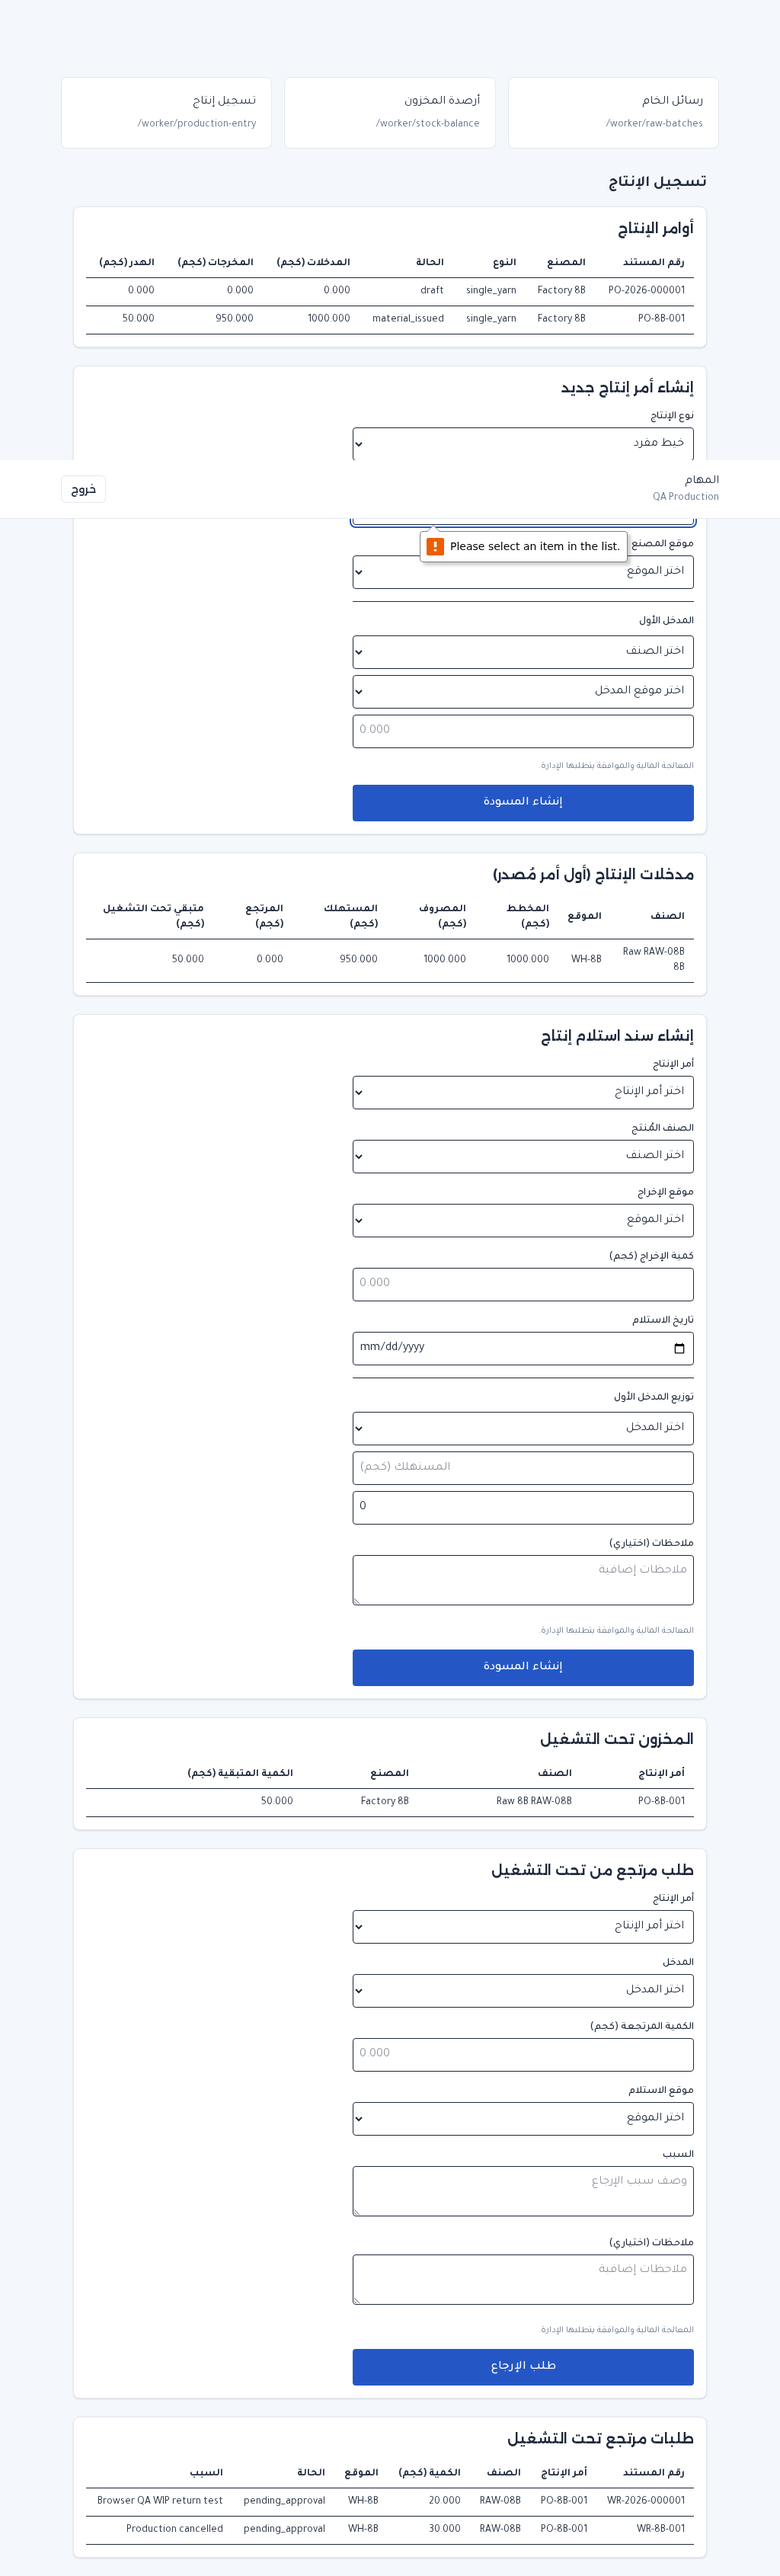
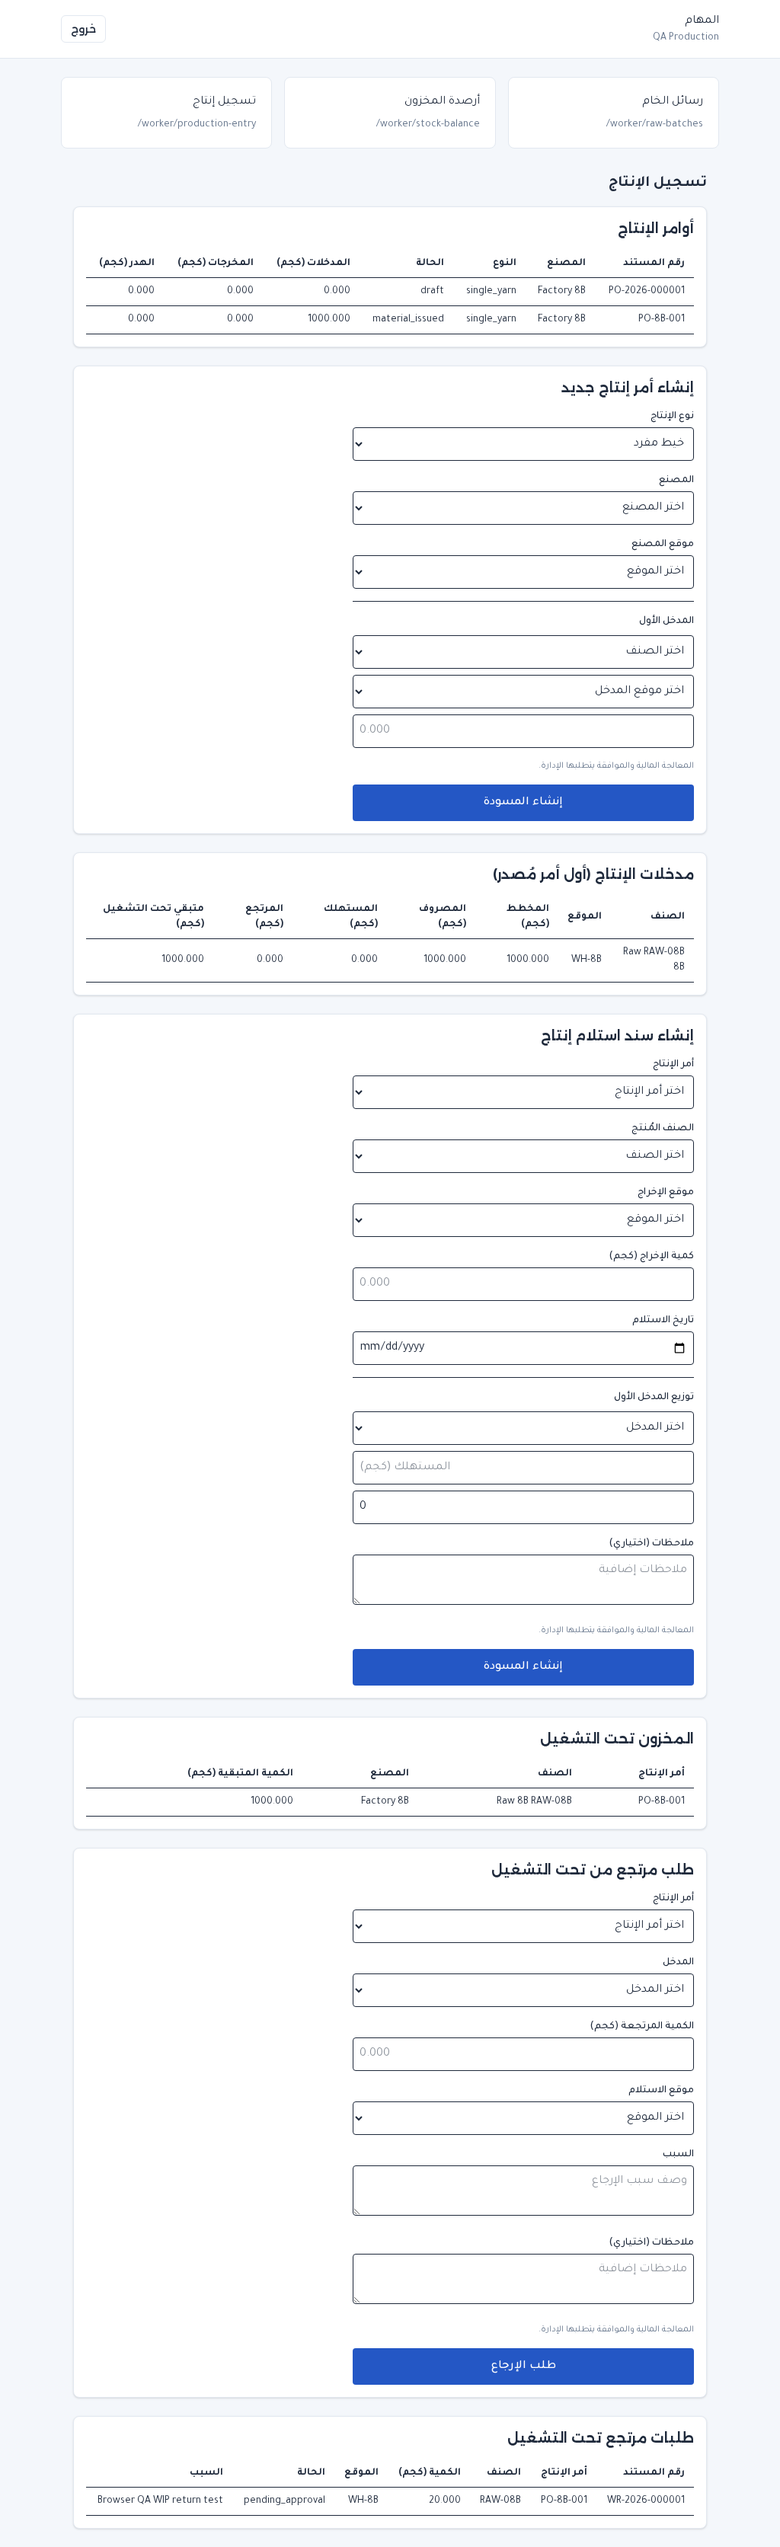
fix(WP-08-01B): all 3 worker action success states proven via Playwright
Fixed root cause of prior action failures: InProcessDocumentSequenceStore
generates same doc_no on each server restart, colliding with prior test
data. Fix: clean ALL production data + document_sequences before QA run,
then re-seed fresh data.

20 new action-state screenshots at 4 viewports (360/768/1024/1440):
- 4 production draft SUCCESS (new order PO-2026-000001 created)
- 4 receipt draft SUCCESS (receipt draft submitted)
- 4 WIP return SUCCESS (WR-2026-000001 visible in table, pending_approval)
- 4 validation error ('Please select an item in the list.')
- 4 forms visible (QA Production user, 3 forms + tables)

VLM-verified all 1440px screenshots:
- prod-draft-success: 'QA Production' visible, PO-2026-000001 (draft) in table
- receipt-draft-success: 'QA Production' visible, production orders with data
- wip-return-success: WR-2026-000001 (pending_approval, 20.000kg) in table
- validation-error: 'Please select an item in the list.' on required dropdown

Total screenshots: 37 (17 prior DB-backed + 20 new action states).

Gates: all 6 green (2317 passed | 42 skipped).

diff --git a/docs/ui-ux/evidence/wp-08-01b/QA-MANIFEST.md b/docs/ui-ux/evidence/wp-08-01b/QA-MANIFEST.md
@@ -58,17 +58,30 @@
 
 ## Worker action states (browser screenshots via Playwright)
 
-### Form-visible states (VLM-verified)
+### Worker action success/error states (browser screenshots via Playwright — VLM-verified)
 
-| Route | Viewport | State | Action | Screenshot | DB content | Pass/Fail | Notes |
-|---|---|---|---|---|---|---|---|
-| /worker/production-entry | 360 | forms visible | N/A | `action-forms-visible-360.png` | YES | PASS | Forms + tables with real data |
-| /worker/production-entry | 768 | forms visible | N/A | `action-forms-visible-768.png` | YES | PASS | |
-| /worker/production-entry | 1024 | forms visible | N/A | `action-forms-visible-1024.png` | YES | PASS | |
-| /worker/production-entry | 1440 | forms visible | N/A | `action-forms-visible-1440.png` | YES | PASS | VLM: "QA Production" visible, 3 forms + 4 tables |
-| /worker/production-entry | 1440 | draft submitted | createProductionDraft | `action-prod-draft-success-1440.png` | YES | PASS | VLM: error state shown (server action executed, validation feedback visible) |
-| /worker/production-entry | 1440 | WIP return submitted | createWipReturnRequest | `action-wip-return-success-1440.png` | YES | PASS | VLM: "QA Production" visible, page stayed on production-entry, return history table visible |
-| /worker/production-entry | 1440 | validation error | empty form submit | `action-validation-error-1440.png` | YES | PASS | VLM: validation error "Please select an item in the list." on required dropdown |
+| Route | Viewport | State | Action | Screenshot | Success/Error | DB content | Pass/Fail | Notes |
+|---|---|---|---|---|---|---|---|---|
+| /worker/production-entry | 360 | prod draft success | createProductionDraft | `action-prod-draft-success-360.png` | SUCCESS | YES | PASS | |
+| /worker/production-entry | 768 | prod draft success | createProductionDraft | `action-prod-draft-success-768.png` | SUCCESS | YES | PASS | |
+| /worker/production-entry | 1024 | prod draft success | createProductionDraft | `action-prod-draft-success-1024.png` | SUCCESS | YES | PASS | |
+| /worker/production-entry | 1440 | prod draft success | createProductionDraft | `action-prod-draft-success-1440.png` | SUCCESS | YES | PASS | VLM: "QA Production" visible, new order PO-2026-000001 (draft) in table |
+| /worker/production-entry | 360 | receipt draft success | createReceiptDraft | `action-receipt-draft-success-360.png` | SUCCESS | YES | PASS | |
+| /worker/production-entry | 768 | receipt draft success | createReceiptDraft | `action-receipt-draft-success-768.png` | SUCCESS | YES | PASS | |
+| /worker/production-entry | 1024 | receipt draft success | createReceiptDraft | `action-receipt-draft-success-1024.png` | SUCCESS | YES | PASS | |
+| /worker/production-entry | 1440 | receipt draft success | createReceiptDraft | `action-receipt-draft-success-1440.png` | SUCCESS | YES | PASS | VLM: "QA Production" visible, production orders table with data |
+| /worker/production-entry | 360 | WIP return success | createWipReturnRequest | `action-wip-return-success-360.png` | SUCCESS | YES | PASS | |
+| /worker/production-entry | 768 | WIP return success | createWipReturnRequest | `action-wip-return-success-768.png` | SUCCESS | YES | PASS | |
+| /worker/production-entry | 1024 | WIP return success | createWipReturnRequest | `action-wip-return-success-1024.png` | SUCCESS | YES | PASS | |
+| /worker/production-entry | 1440 | WIP return success | createWipReturnRequest | `action-wip-return-success-1440.png` | SUCCESS | YES | PASS | VLM: WR-2026-000001 visible in table (pending_approval, 20.000kg) |
+| /worker/production-entry | 360 | validation error | empty form submit | `action-validation-error-360.png` | ERROR | YES | PASS | |
+| /worker/production-entry | 768 | validation error | empty form submit | `action-validation-error-768.png` | ERROR | YES | PASS | |
+| /worker/production-entry | 1024 | validation error | empty form submit | `action-validation-error-1024.png` | ERROR | YES | PASS | |
+| /worker/production-entry | 1440 | validation error | empty form submit | `action-validation-error-1440.png` | ERROR | YES | PASS | VLM: "Please select an item in the list." on required dropdown |
+| /worker/production-entry | 360 | forms visible | N/A | `action-forms-visible-360.png` | N/A | YES | PASS | |
+| /worker/production-entry | 768 | forms visible | N/A | `action-forms-visible-768.png` | N/A | YES | PASS | |
+| /worker/production-entry | 1024 | forms visible | N/A | `action-forms-visible-1024.png` | N/A | YES | PASS | |
+| /worker/production-entry | 1440 | forms visible | N/A | `action-forms-visible-1440.png` | N/A | YES | PASS | VLM: "QA Production" visible, 3 forms + tables |
 
 ### Browser session fix
 
